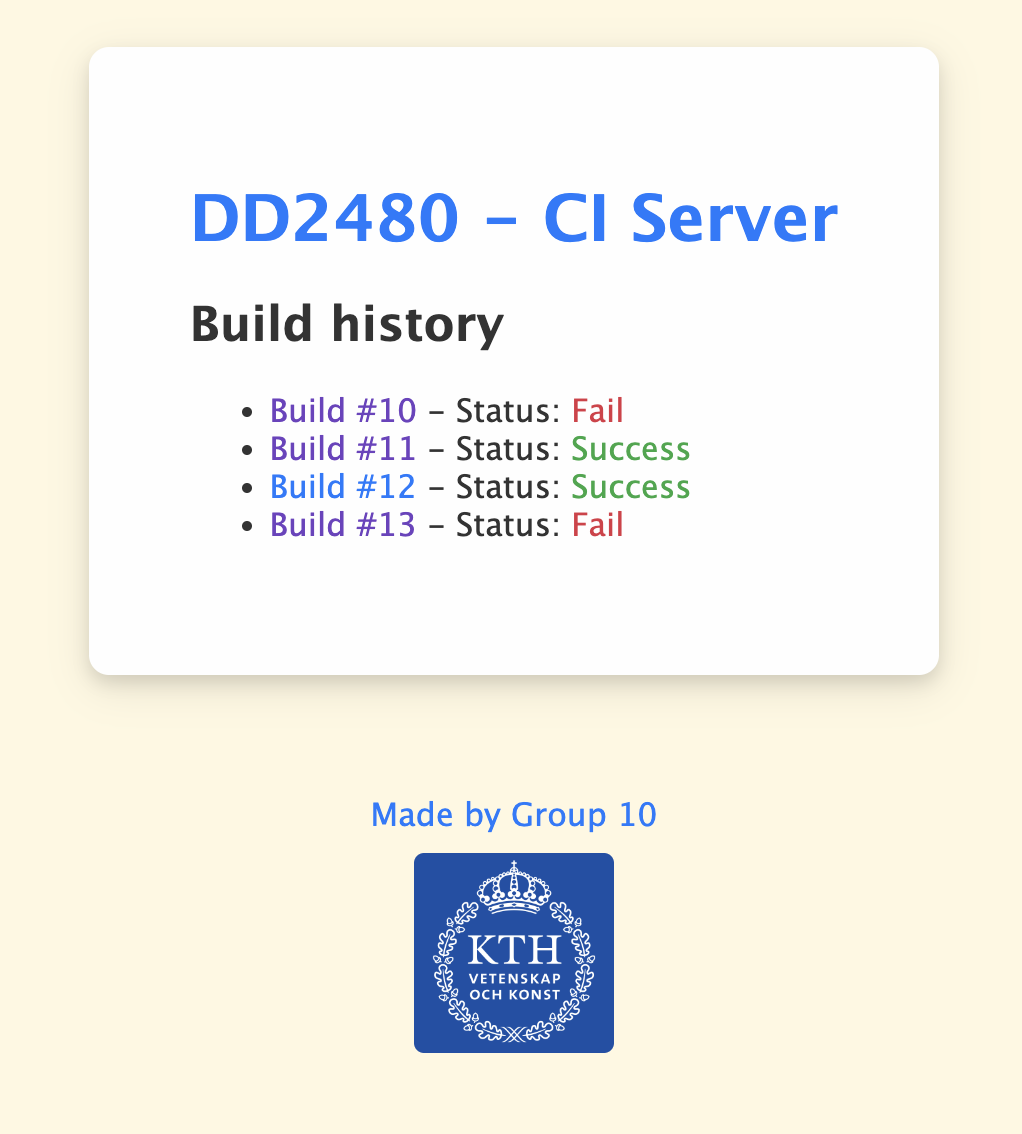
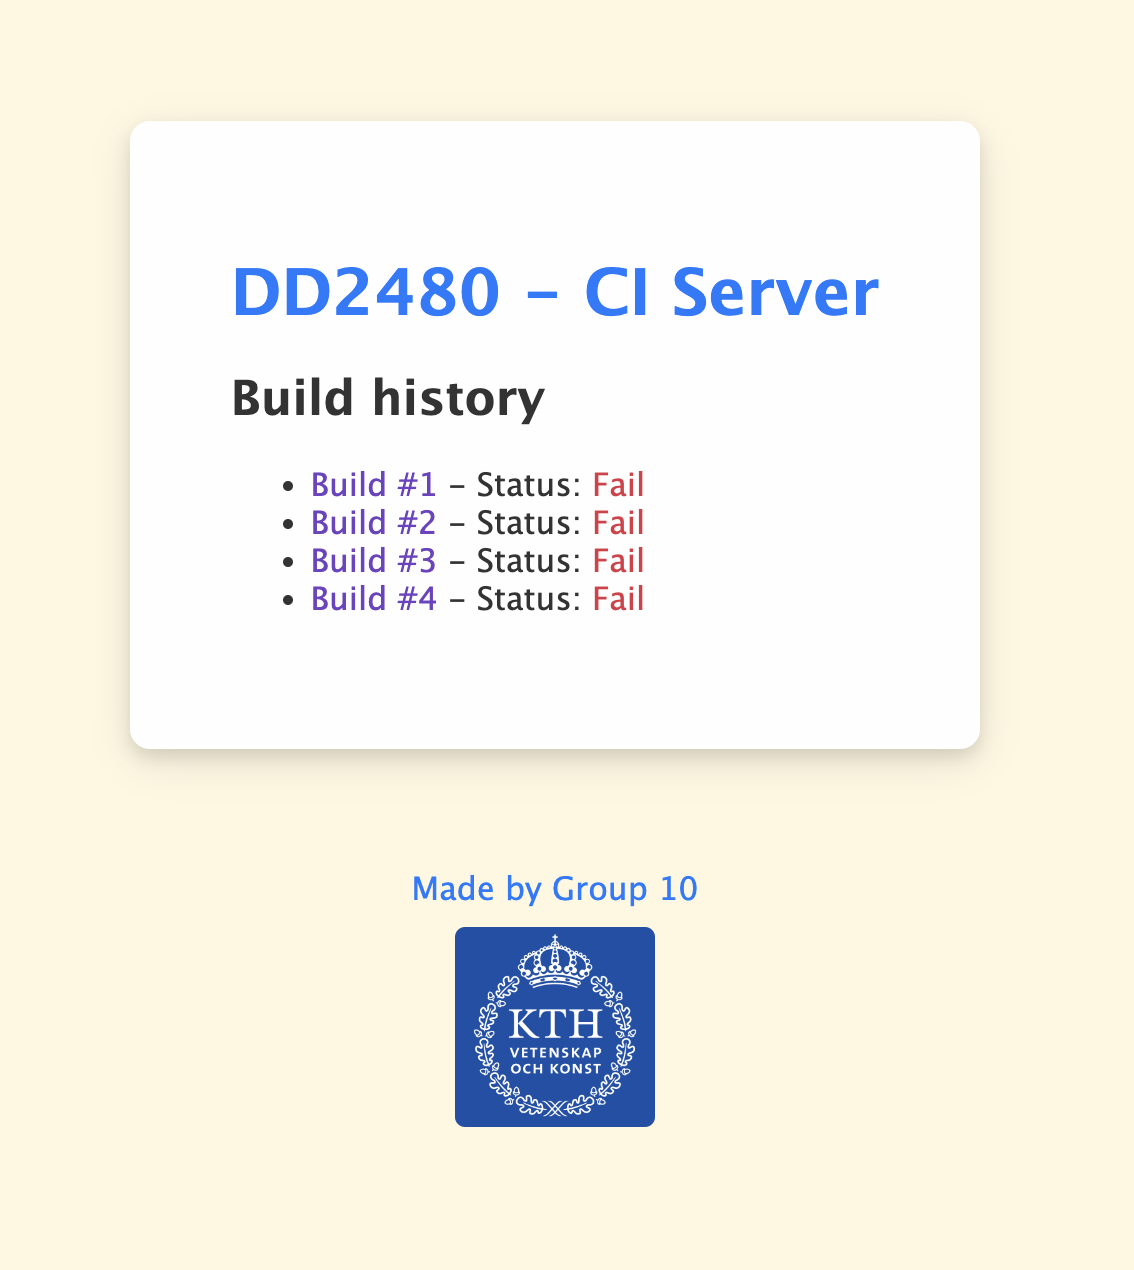
add: add some sentence for grading about history and replace an image #42

diff --git a/README.md b/README.md
@@ -25,7 +25,7 @@ pip install -r requirements
 Go to the settings tab of the considered repository, and under Webhooks, click on “Add webhook”, then enter the payload URL (like https://<YOUR_URL>/server/webhook - you can get an url with ngrok) and set the content type to “application/json”. Choose a webhook secret for request verification and select the relevant events.
 
 ### YOUR_URL with ngrok
-- You can get your own url from domain page.
+- You can get your own url from domain section on your own My page.
 
 ## Setting up the environment
 Make a `.env` file at the root of the project directory, containing three keys:
@@ -56,7 +56,7 @@ ngrok http --domain=<YOUR_URL> 8000
 Accessing the front-end:
 To see the build history on the web browser, go to: “https://<YOUR_URL>/server/”
 
-![front-end.png]
+![front-end.png](front-end.png)
 
 ## Assessment of way of working
 We still feel like our way of working fulfills the “In place” level of the checklist. The tools that we are using, for example GitHub issues and pull requests, are still working well. More than last time, we have tried to split up larger issues into smaller sub-issues, which has given us some more structure for working on large parts of the projects. To get to the “Working well”-level, we still need to become more comfortable with the way of working that we are using. We would also need to do even more evaluating and adjusting of how we are using the tools we have to best help us work together. For example, before the next assignment, we should evaluate our use of sub-issues to see if they helped our workflow, and if we should continue to use them.
@@ -65,7 +65,7 @@ We still feel like our way of working fulfills the “In place” level of the c
 * Compilation: The code is first syntax checked for errors with pylint, and fails if syntax errors are found. Then, if there are no syntax errors, the code is checked for warnings. This is tested via unit tests for some small programs with and without errors.
 * Testing: The automatic testing is done by running pytest on the code in the repo. 
 * Notifications: The notifications are sent through discord via a discord webhook, which was tested with unit tests to test that it sends messages correctly.
-* History: The URL list for the project can be found at (when the server is running):: https://mantis-peaceful-locust.ngrok-free.app/server.
+* History: All status are stored in sqlite3. You can watch the list on the web browser.
 
 
 ## Statement of contributions
